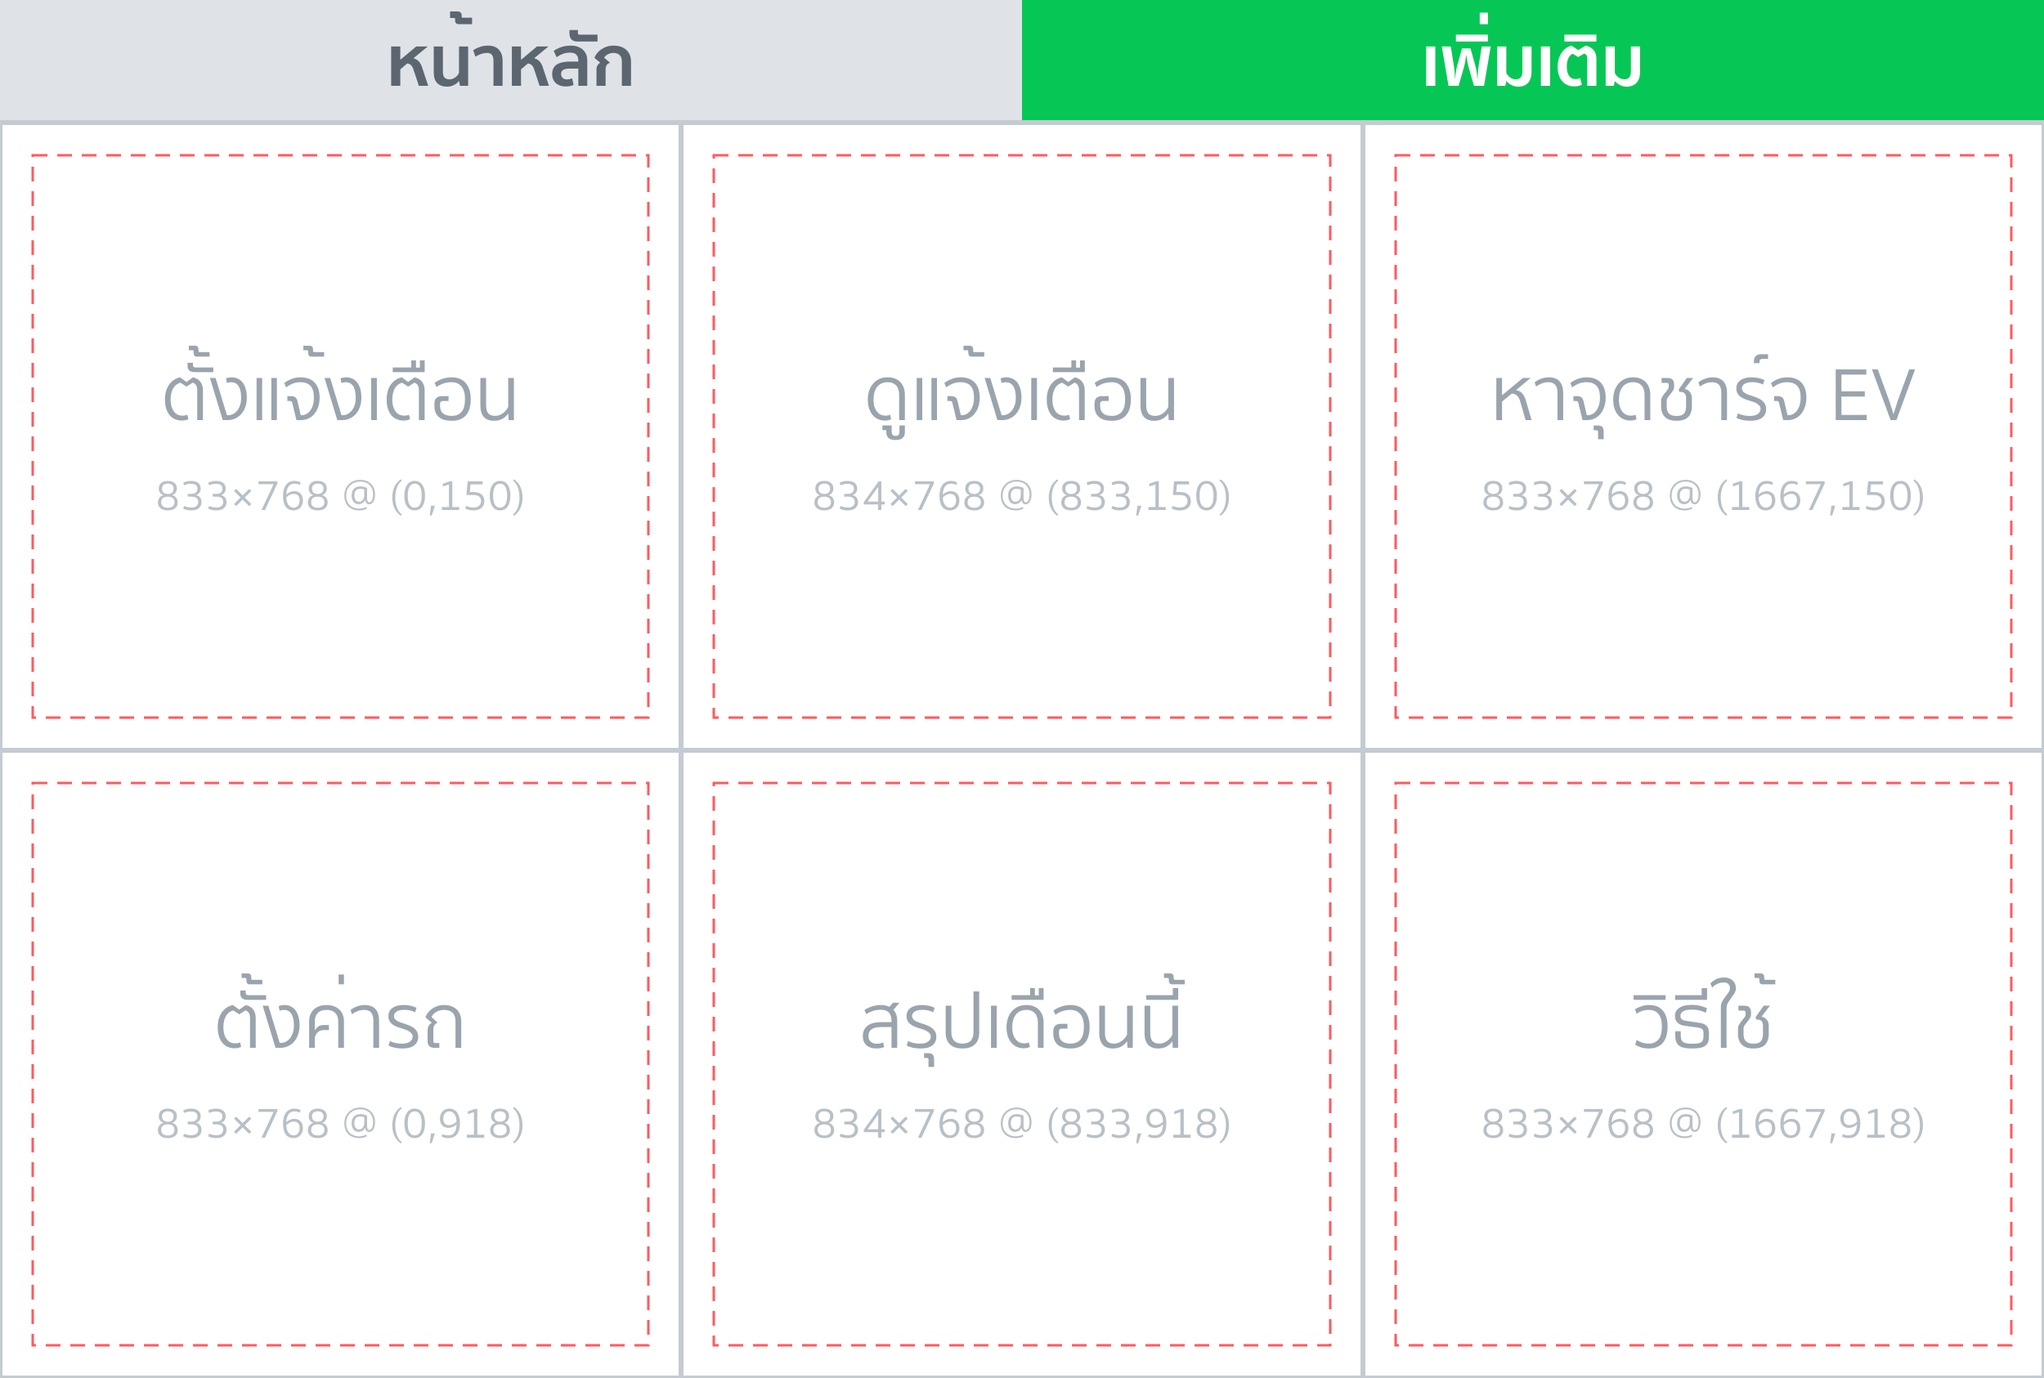
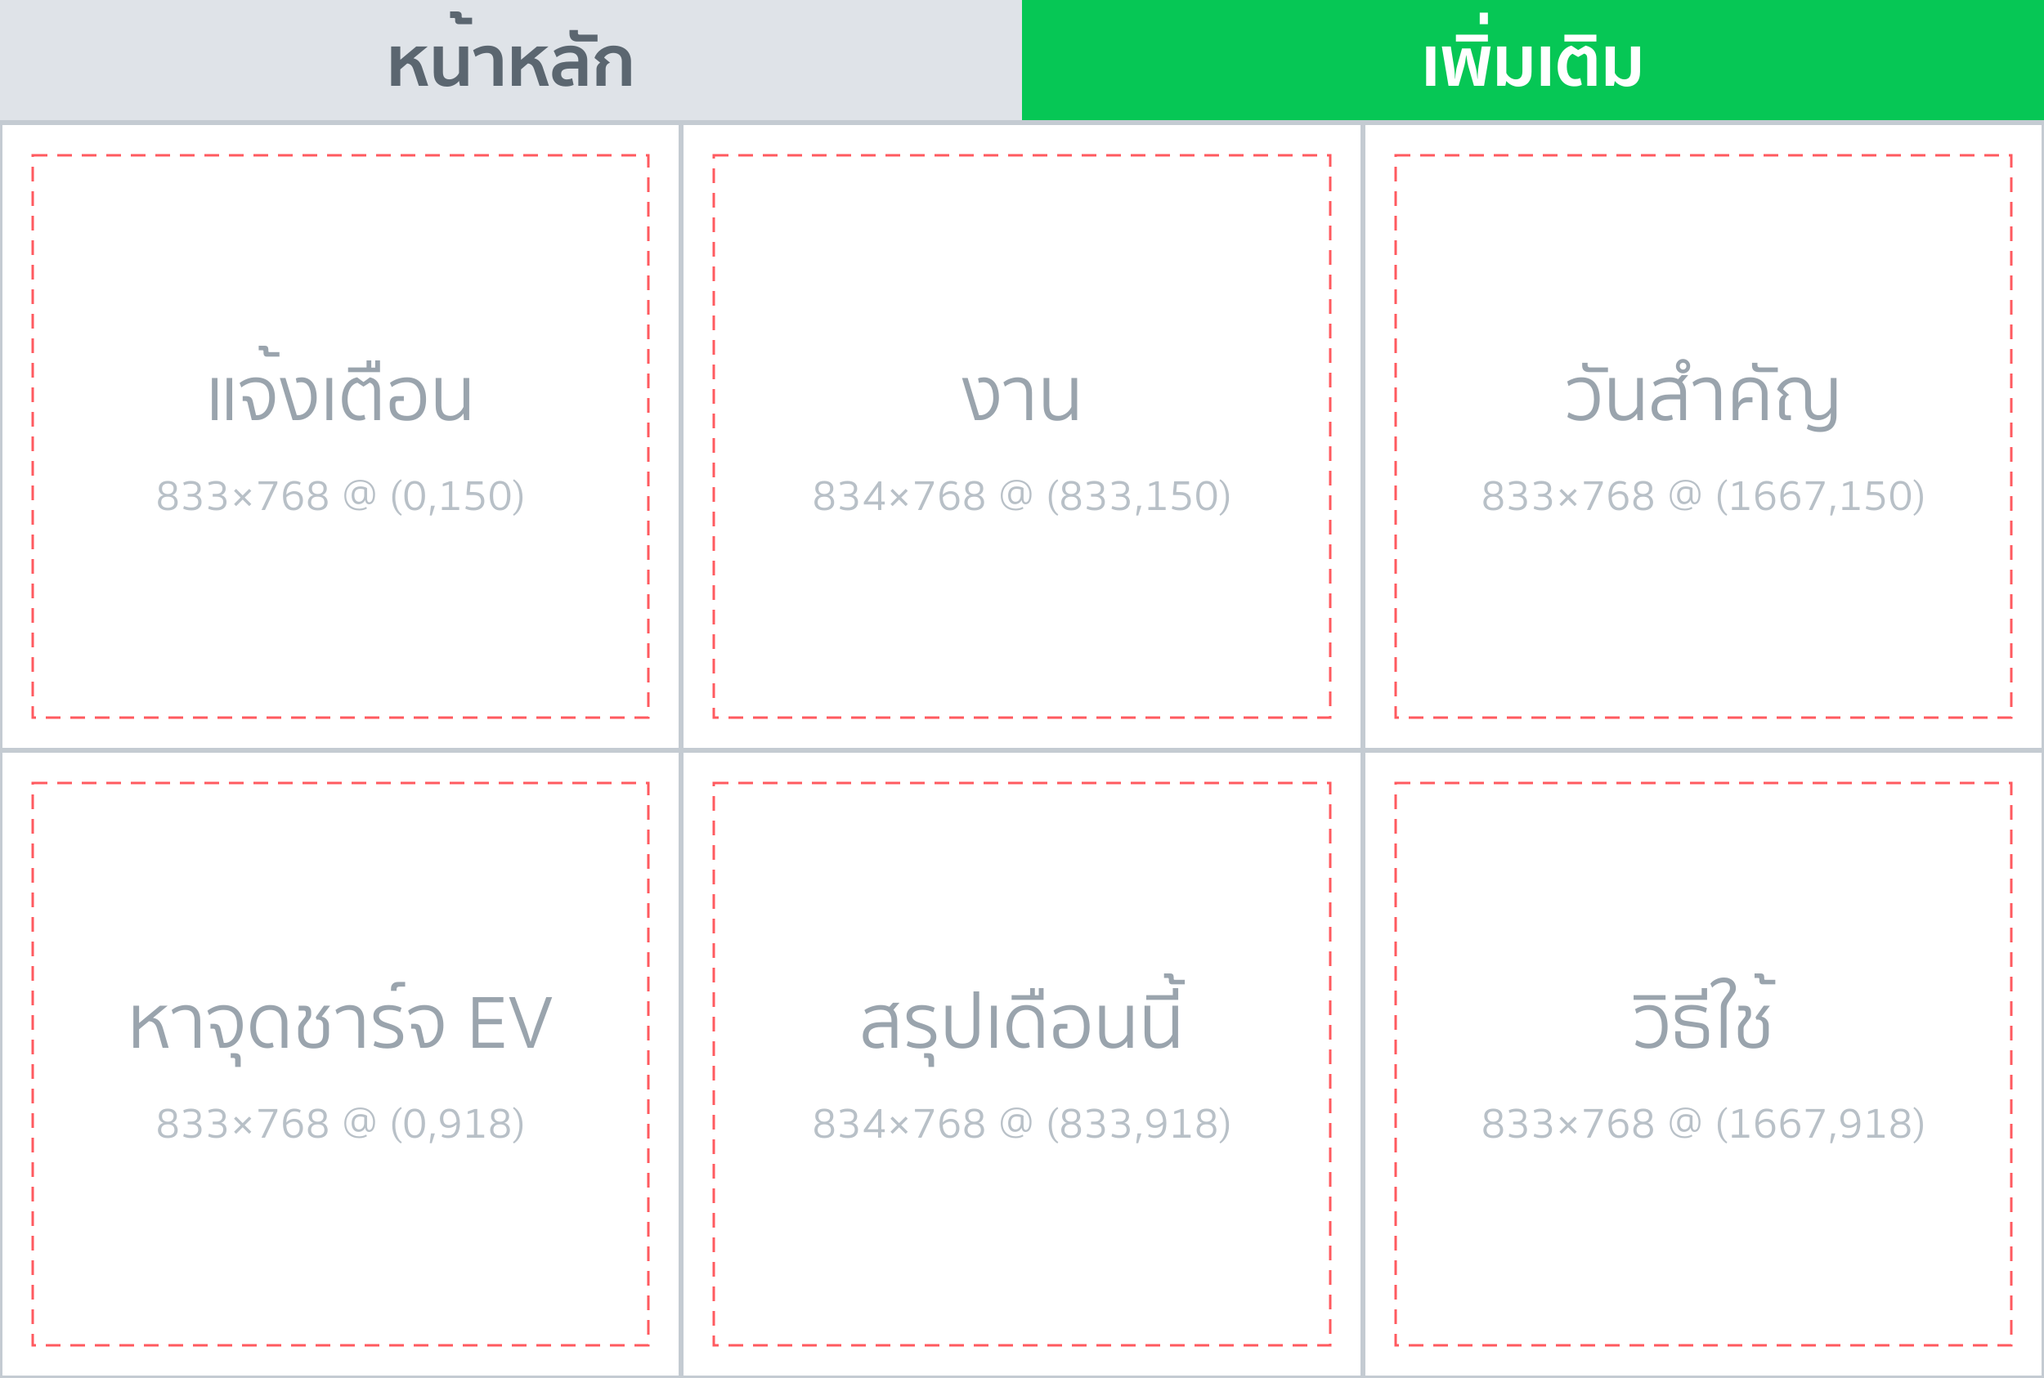
feat: Rich menu แท็บเพิ่มเติม — ปุ่ม แจ้งเตือน / งาน / วันสำคัญ (ย้ายตั้งค่ารถเข้าปุ่ม EV) + วาดภาพใหม่

diff --git a/test/richmenu.test.js b/test/richmenu.test.js
@@ -75,7 +75,7 @@ test('rich menu: tab switching targets the two aliases and every action is well-
 test('rich menu: message buttons send commands the bot really understands', async () => {
   await setup();
   const sent = Object.values(BUTTONS).flat().map((b) => b.action).filter((a) => a.type === 'message').map((a) => a.text);
-  assert.deepEqual(sent.sort(), ['help', 'ดูแจ้งเตือน', 'แจ้งเตือนใหม่', 'ลบรายการ', 'สรุป', 'สรุปยอดเดือนนี้'].sort());
+  assert.deepEqual(sent.sort(), ['help', 'ลบรายการ', 'สรุป', 'สรุปยอดเดือนนี้'].sort());
 
   __setInterpreter(async () => { throw new Error('no model for fixed commands'); });
   for (const text of sent) {
@@ -216,6 +216,39 @@ test('menu_ask / menu_ev / menu_record / unknown', async () => {
 
   assert.ok((await handleMenuPostback('action=menu_record', u1)).text.includes('ค่าข้าว'));
   assert.equal(await handleMenuPostback('action=menu_nope', u1), null);
+});
+
+test('menu_notify offers set/list notification commands the bot understands', async () => {
+  await setup();
+  const m = await handleMenuPostback('action=menu_notify', u1);
+  assertValidQuickReply(m);
+  assert.deepEqual(m.quickReply.items.map((i) => i.action.text), ['แจ้งเตือนใหม่', 'ดูแจ้งเตือน']);
+});
+
+test('menu_todo / menu_events: empty state offers the add button; real lists add ✅/❌ buttons and stay within 13', async () => {
+  await setup();
+  const emptyTodo = await handleMenuPostback('action=menu_todo', u1);
+  assertValidQuickReply(emptyTodo);
+  assert.deepEqual(pbData(emptyTodo), ['เพิ่มงาน ']);
+  const emptyEvents = await handleMenuPostback('action=menu_events', u1);
+  assert.deepEqual(pbData(emptyEvents), ['เพิ่มวันสำคัญ ']);
+
+  for (let i = 1; i <= 15; i += 1) await handleTextMessage(`เพิ่มงาน งานที่ ${i}`, u1);
+  await handleTextMessage('เพิ่มวันสำคัญ วันเกิดแฟน 14 มี.ค.', u1);
+
+  const todo = await handleMenuPostback('action=menu_todo', u1);
+  assertValidQuickReply(todo);
+  assert.equal(todo.quickReply.items.length, MAX_QUICK_REPLIES);
+  assert.equal(pbData(todo)[0], 'เพิ่มงาน ');
+  assert.ok(pbData(todo).includes('เสร็จ 1'));
+  // ปุ่มจากเมนูใช้เลขอ้างอิงลิสต์ที่เพิ่งแสดง → เสร็จ 1 ทำงานข้อแรกจริง
+  const done = await handleTextMessage('เสร็จ 1', u1);
+  assert.equal(done.type, 'todo_done');
+
+  const ev = await handleMenuPostback('action=menu_events', u1);
+  assertValidQuickReply(ev);
+  assert.deepEqual(pbData(ev), ['เพิ่มวันสำคัญ ', 'ลบวันสำคัญ 1']);
+  assert.ok(ev.text.includes('วันเกิดแฟน'));
 });
 
 // ---------- คำถามจากเมนูไม่ต้องใช้โมเดล ----------

diff --git a/scripts/richmenu-art.js b/scripts/richmenu-art.js
@@ -50,18 +50,18 @@ const ICONS = {
     <path d="M82 -70L4 22l-4 52 -20 -42" ${S}/>`,
   ask: () => `<path d="M-70 -56h140a10 10 0 0 1 10 10v82a10 10 0 0 1-10 10H-6l-42 36v-36h-22a10 10 0 0 1-10-10v-82a10 10 0 0 1 10-10z" fill="${C.card}" stroke="${C.brown}" stroke-width="11" stroke-linejoin="round"/>
     <circle cx="-36" cy="-4" r="9" fill="${C.mintDark}"/><circle cx="0" cy="-4" r="9" fill="${C.mintDark}"/><circle cx="36" cy="-4" r="9" fill="${C.mintDark}"/>`,
-  reminder: () => `<path d="M0 -76c-40 0-60 28-60 62v34l-16 22h152l-16-22v-34c0-34-20-62-60-62z" fill="${C.card}" stroke="${C.brown}" stroke-width="11" stroke-linejoin="round"/>
+  notify: () => `<path d="M0 -76c-40 0-60 28-60 62v34l-16 22h152l-16-22v-34c0-34-20-62-60-62z" fill="${C.card}" stroke="${C.brown}" stroke-width="11" stroke-linejoin="round"/>
     <path d="M-20 62a20 20 0 0 0 40 0" ${S}/>
     <circle cx="0" cy="-84" r="9" fill="${C.mintDark}"/>`,
-  reminders: () => `<rect x="-62" y="-66" width="124" height="142" rx="16" fill="${C.card}" stroke="${C.brown}" stroke-width="11"/>
+  todo: () => `<rect x="-62" y="-66" width="124" height="142" rx="16" fill="${C.card}" stroke="${C.brown}" stroke-width="11"/>
     <rect x="-28" y="-82" width="56" height="30" rx="10" fill="${C.mintDark}" stroke="${C.brown}" stroke-width="9"/>
     <path d="M-38 -14l10 10 18-20M-38 32l10 10 18-20" ${line(10)}/>
     <path d="M6 -10h34M6 36h34" ${line(10)}/>`,
   ev: () => `<path d="M14 -84L-48 8h40l-18 76L52 -14H10z" fill="${C.mintDark}" stroke="${C.brown}" stroke-width="11" stroke-linejoin="round"/>`,
-  car: () => `<path d="M-84 24v-30a16 16 0 0 1 12-15l24-8 22-28a16 16 0 0 1 12-6h48a16 16 0 0 1 13 7l20 27 27 8a14 14 0 0 1 10 14v31z" fill="${C.card}" stroke="${C.brown}" stroke-width="11" stroke-linejoin="round"/>
-    <path d="M-30 -42l-14 26h54v-26zM22 -42v26h50l-18-26z" fill="${C.mint}" stroke="${C.brown}" stroke-width="7" stroke-linejoin="round"/>
-    <circle cx="-48" cy="30" r="22" fill="${C.mintDark}" stroke="${C.brown}" stroke-width="10"/>
-    <circle cx="52" cy="30" r="22" fill="${C.mintDark}" stroke="${C.brown}" stroke-width="10"/>`,
+  events: () => `<rect x="-60" y="-8" width="120" height="78" rx="12" fill="${C.card}" stroke="${C.brown}" stroke-width="11"/>
+    <rect x="-72" y="-44" width="144" height="38" rx="12" fill="${C.mintDark}" stroke="${C.brown}" stroke-width="11"/>
+    <path d="M0 -44V70" ${S}/>
+    <path d="M0 -44c-26-40-62-30-46-8M0 -44c26-40 62-30 46-8" ${S}/>`,
   monthly: () => `<rect x="-70" y="-56" width="140" height="130" rx="16" fill="${C.card}" stroke="${C.brown}" stroke-width="11"/>
     <path d="M-70 -14h140" ${S}/>
     <path d="M-34 -78v36M34 -78v36" ${S}/>

diff --git a/src/handlers/commands/menu.js b/src/handlers/commands/menu.js
@@ -2,6 +2,7 @@
 // ทุกตัวเลือกเป็น "ข้อความคำสั่งเดิม" จึงผ่าน flow/ขั้นตอนยืนยันเดิมทั้งหมด
 const { getTrips, getTripPlaces, markTripPlaceVisitedById, deleteTripPlaceById } = require('../../services/db');
 const { handleListNotes, handleListPlaces } = require('./trip');
+const { handleListTodos, handleListEvents } = require('./planner');
 const { answerForUser } = require('./nl-dispatch');
 
 const MAX_QUICK_REPLIES = 13;
@@ -164,6 +165,21 @@ async function handleMenuPostback(data, userContext = {}) {
     return withQuickReplies('💬 ถามได้เลย หรือพิมพ์คำถามเองก็ได้ เช่น "เดือนนี้กินกาแฟไปเท่าไหร่"', [
       ...Object.keys(MENU_QUESTIONS).map((q) => sayItem(q)),
     ]);
+  }
+
+  if (action === 'menu_notify') {
+    return withQuickReplies('⏰ แจ้งเตือน\nตั้งแบบเลือกจากปฏิทิน หรือพิมพ์เอง เช่น เตือนพรุ่งนี้บ่ายสาม ซื้อนม', [
+      sayItem('⏰ ตั้งแจ้งเตือนใหม่', 'แจ้งเตือนใหม่'),
+      sayItem('📋 ดูแจ้งเตือน', 'ดูแจ้งเตือน'),
+    ]);
+  }
+
+  // งาน (To-Do ร่วมกัน) / วันสำคัญ: แสดงลิสต์จริง + ปุ่มจัดการจากคำสั่งเดิม + ปุ่มเปิดคีย์บอร์ดเพิ่มรายการ
+  if (action === 'menu_todo' || action === 'menu_events') {
+    const todo = action === 'menu_todo';
+    const result = await (todo ? handleListTodos : handleListEvents)(userContext.lineUserId || 'unknown');
+    const add = todo ? fillItem('➕ เพิ่มงาน', 'เพิ่มงาน ') : fillItem('➕ เพิ่มวันสำคัญ', 'เพิ่มวันสำคัญ ');
+    return withQuickReplies(result.reply, [add, ...(result.quickReplies || []).map((q) => sayItem(q.label, q.text))]);
   }
 
   if (action === 'menu_ev') {

diff --git a/src/richmenu/definitions.js b/src/richmenu/definitions.js
@@ -27,10 +27,10 @@ const BUTTONS = {
     { key: 'ask', title: '💬 ถามข้อมูล', action: post('ถามข้อมูล', 'action=menu_ask') },
   ],
   more: [
-    { key: 'reminder', title: '⏰ ตั้งแจ้งเตือน', action: msg('ตั้งแจ้งเตือน', 'แจ้งเตือนใหม่') },
-    { key: 'reminders', title: '📋 ดูแจ้งเตือน', action: msg('ดูแจ้งเตือน', 'ดูแจ้งเตือน') },
+    { key: 'notify', title: '⏰ แจ้งเตือน', action: post('แจ้งเตือน', 'action=menu_notify') },
+    { key: 'todo', title: '📋 งาน', action: post('งาน', 'action=menu_todo') },
+    { key: 'events', title: '🎉 วันสำคัญ', action: post('วันสำคัญ', 'action=menu_events') },
     { key: 'ev', title: '🔌 หาจุดชาร์จ EV', action: post('หาจุดชาร์จ EV', 'action=menu_ev') },
-    { key: 'car', title: '🚗 ตั้งค่ารถ', action: fillIn('ตั้งค่ารถ', 'action=menu_car', 'ตั้งค่ารถ ') },
     { key: 'monthly', title: '📅 สรุปเดือนนี้', action: msg('สรุปเดือนนี้', 'สรุปยอดเดือนนี้') },
     { key: 'help', title: '❓ วิธีใช้', action: msg('วิธีใช้', 'help') },
   ],

diff --git a/CLAUDE.md b/CLAUDE.md
@@ -239,8 +239,8 @@ trips (
 
 ### Rich menu (LINE) ✅ โค้ด + รูปเสร็จ — เหลือติดตั้งต่อ environment
 
-- 2 แท็บ: **หน้าหลัก** (บันทึกค่าใช้จ่าย · สรุปยอด · จ่าย/รับเงิน · ลบรายการ · ทริป · ถามข้อมูล) และ **เพิ่มเติม** (ตั้งแจ้งเตือน · ดูแจ้งเตือน · หาจุดชาร์จ EV · ตั้งค่ารถ · สรุปเดือนนี้ · วิธีใช้) — แถบแท็บอยู่บนสุด สลับด้วย `richmenuswitch` + alias `expense-bot-main/more`
-- ปุ่มเป็น "ทางลัดเข้า flow เดิม": ปุ่มคำสั่งส่งข้อความเดิม (`สรุป`, `ลบรายการ`, `help` …); ปุ่มที่ต้องมีขั้นต่อ (`action=menu_money|trip|ask|ev`) → `handlers/commands/menu.js` ตอบข้อความ + quick reply (ตัวเลือกเป็นข้อความคำสั่งเดิม จึงผ่านขั้นตอนยืนยัน `ใช่` เหมือนเดิม); ปุ่มที่ต้องพิมพ์ต่อใช้ postback `inputOption: openKeyboard` + `fillInText`
+- 2 แท็บ: **หน้าหลัก** (บันทึกค่าใช้จ่าย · สรุปยอด · จ่าย/รับเงิน · ลบรายการ · ทริป · ถามข้อมูล) และ **เพิ่มเติม** (แจ้งเตือน · งาน · วันสำคัญ · หาจุดชาร์จ EV (มีปุ่ม ตั้งค่ารถ ข้างใน) · สรุปเดือนนี้ · วิธีใช้) — แถบแท็บอยู่บนสุด สลับด้วย `richmenuswitch` + alias `expense-bot-main/more`
+- ปุ่มเป็น "ทางลัดเข้า flow เดิม": ปุ่มคำสั่งส่งข้อความเดิม (`สรุป`, `ลบรายการ`, `help` …); ปุ่มที่ต้องมีขั้นต่อ (`action=menu_money|trip|ask|ev|notify|todo|events`) → `handlers/commands/menu.js` ตอบข้อความ + quick reply (ตัวเลือกเป็นข้อความคำสั่งเดิม จึงผ่านขั้นตอนยืนยัน `ใช่` เหมือนเดิม); ปุ่มที่ต้องพิมพ์ต่อใช้ postback `inputOption: openKeyboard` + `fillInText`
 - ปุ่ม ✈ ทริป มีหลายชั้น (postback `menu_trip*`, ทุกชั้นมีปุ่ม ← กลับ): ลิสต์ทริปจริง (≤8) → เมนูทริป (สรุป · 📝 โน้ต · 📍 ที่เที่ยว · เส้นทาง · ปิด/เปิดทริป) → โน้ต (แสดง + ➕ เพิ่มโน้ต) / ที่เที่ยว (แสดง + ➕ เพิ่ม · ✓ ไปแล้ว · 🗑 ลบที่ — เลือกจากปุ่มรายชื่อ, ลบมีขั้นยืนยัน, อ้างที่ด้วย id ไม่ใช่ชื่อ) ปุ่ม ➕ ใช้ #แท็ก จึงไม่มีสำหรับชื่อทริปที่มีช่องว่าง
 - วลีของปุ่ม "ถามข้อมูล" (`เดือนนี้ใช้ไปเท่าไหร่` ฯลฯ) ตอบตรงด้วย `queries.js` โดยไม่เรียกโมเดล — ใช้ได้แม้เครดิต AI หมด
 - ติดตั้ง: รูป `assets/richmenu/main.png`, `more.png` สร้างด้วย `node scripts/richmenu-art.js` (ปรับสี/ชื่อปุ่มแล้วรันซ้ำได้) แล้วรัน `npm run richmenu:setup` **แยกทีละ environment** (dev/prod คนละ LINE channel) — `-- --dry-run` ตรวจก่อนได้

diff --git a/docs/richmenu-design.md b/docs/richmenu-design.md
@@ -46,10 +46,10 @@
 
 | ตำแหน่ง | ข้อความบนปุ่ม | ไอคอนแนะนำ | กดแล้วเกิดอะไร |
 |---|---|---|---|
-| 1 บนซ้าย | ตั้งแจ้งเตือน | ⏰ | ส่ง `แจ้งเตือนใหม่` (เลือกวันเวลาจากปฏิทิน) |
-| 2 บนกลาง | ดูแจ้งเตือน | 📋 | ส่ง `ดูแจ้งเตือน` |
-| 3 บนขวา | หาจุดชาร์จ EV | 🔌 | บอตแนะนำวิธี + ปุ่มแชร์ตำแหน่ง |
-| 4 ล่างซ้าย | ตั้งค่ารถ | 🚗 | เปิดคีย์บอร์ดพร้อม "ตั้งค่ารถ " |
+| 1 บนซ้าย | แจ้งเตือน | ⏰ | บอตถามต่อด้วยปุ่มเลือก (ตั้งแจ้งเตือนใหม่ / ดูแจ้งเตือน) |
+| 2 บนกลาง | งาน | 📋 | แสดงลิสต์งานที่ต้องทำ + ปุ่ม ✅ ทำเสร็จ + ปุ่ม ➕ เพิ่มงาน (เปิดคีย์บอร์ดพร้อม "เพิ่มงาน ") |
+| 3 บนขวา | วันสำคัญ | 🎉 | แสดงลิสต์วันสำคัญ + ปุ่ม ❌ ลบ + ปุ่ม ➕ เพิ่ม (เปิดคีย์บอร์ดพร้อม "เพิ่มวันสำคัญ ") |
+| 4 ล่างซ้าย | หาจุดชาร์จ EV | 🔌 | บอตแนะนำวิธี + ปุ่มแชร์ตำแหน่ง + ปุ่ม ตั้งค่ารถ |
 | 5 ล่างกลาง | สรุปเดือนนี้ | 📅 | ส่ง `สรุปยอดเดือนนี้` |
 | 6 ล่างขวา | วิธีใช้ | ❓ | ส่ง `help` |
 
